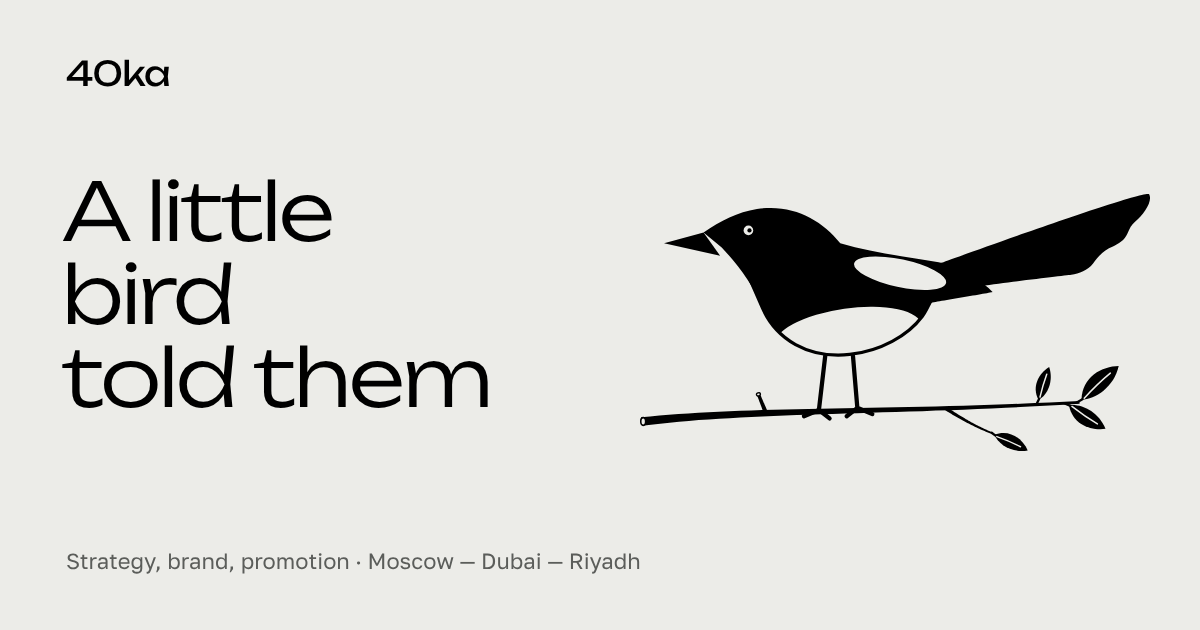
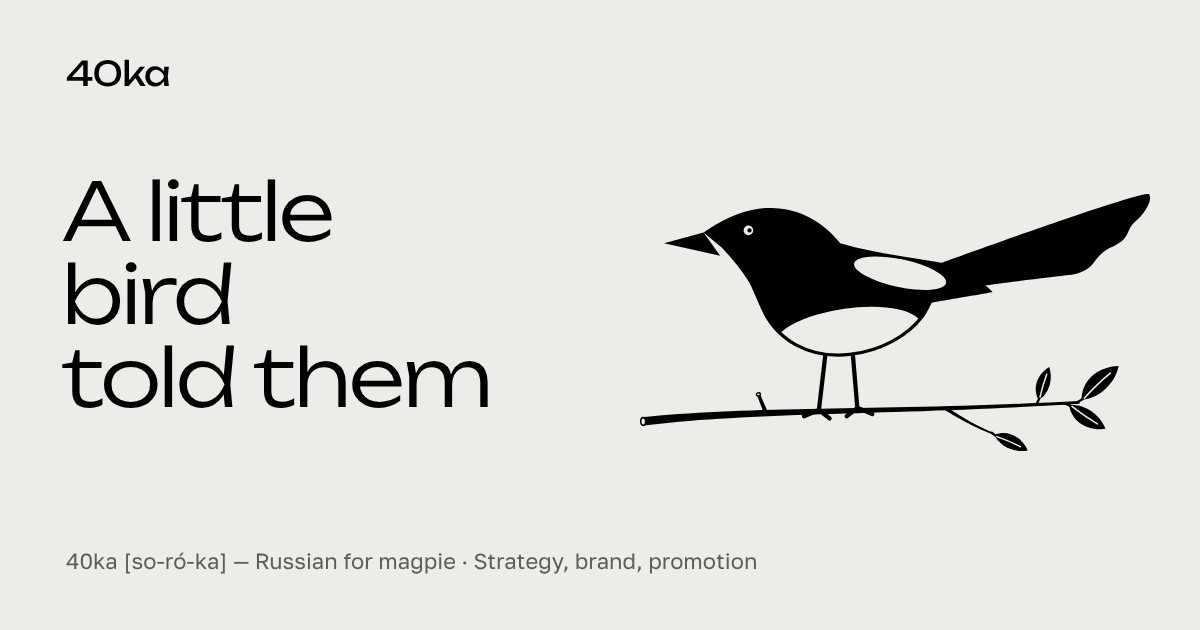
География без хвастовства; в английской версии — что такое 40ka
- С первого экрана убраны «Москва / Дубай / Эр-Рияд»
- Внизу сайта и в меню: «Россия · Турция · Саудовская Аравия · Индонезия» (Дубая нет)
- «О студии»: «Работаем по всей России, от Москвы до Дагестана, а также с компаниями в Турции, Саудовской Аравии и Индонезии…»
- Города убраны из описания для поисковиков и с картинки для пересылки ссылки
- EN: под заголовком вторая словарная статья — «40ka [so-ró-ka] — Russian for magpie: “sorok” means forty. Hence the bird.»; то же пояснение на английской картинке ссылки

Claude-Session: https://claude.ai/code/session_01ARYNsDozZ9rhrjs8BgKQgy

Changed region(s): [[0.0308, 0.8746, 0.6475, 0.9048]]

diff --git a/index.html b/index.html
@@ -6,12 +6,12 @@
 <title>40ka</title>
 <link rel="alternate" hreflang="ru" href="https://shamil-gdev.github.io/40ka-studio/">
 <link rel="alternate" hreflang="en" href="https://shamil-gdev.github.io/40ka-studio/en/">
-<meta name="description" content="40ka: сорока на хвосте принесёт. Стратегия, айдентика, сайты, ролики и продвижение для бизнеса, который хотят рекомендовать. Москва, Дубай, Эр-Рияд.">
+<meta name="description" content="40ka: сорока на хвосте принесёт. Стратегия, айдентика, сайты, ролики и продвижение для бизнеса, который хотят рекомендовать.">
 <meta property="og:type" content="website">
 <meta property="og:site_name" content="40ka">
 <meta property="og:locale" content="ru_RU">
 <meta property="og:title" content="40ka — стратегия, бренд, продвижение">
-<meta property="og:description" content="40ka: сорока на хвосте принесёт. Стратегия, айдентика, сайты, ролики и продвижение для бизнеса, который хотят рекомендовать. Москва, Дубай, Эр-Рияд.">
+<meta property="og:description" content="40ka: сорока на хвосте принесёт. Стратегия, айдентика, сайты, ролики и продвижение для бизнеса, который хотят рекомендовать.">
 <meta property="og:url" content="https://shamil-gdev.github.io/40ka-studio/">
 <meta property="og:image" content="https://shamil-gdev.github.io/40ka-studio/img/og.png">
 <meta property="og:image:width" content="1200">
@@ -75,7 +75,7 @@
     <a href="#about">О студии</a>
     <a href="#contact">Контакт</a>
   </nav>
-  <div class="menu__foot"><span>Москва — Дубай — Эр-Рияд</span><span>hello@40ka.studio</span></div>
+  <div class="menu__foot"><span>Россия · Турция · Саудовская Аравия · Индонезия</span><span>hello@40ka.studio</span></div>
 </div>
 
 <main id="top">
@@ -109,7 +109,6 @@
     </div>
     <div class="hero__sub">
       <p>Мы делаем бренды, о которых так рассказывают: стратегия, айдентика, сайт и продвижение.</p>
-      <div class="cities"><span>Москва</span><span>Дубай</span><span>Эр-Рияд</span></div>
     </div>
   </section>
 
@@ -306,7 +305,7 @@
       <div class="about__text">
         <p>40ka делает бренды и запускает их в жизнь: от стратегии и айдентики до сайта, роликов и продвижения. Название от сороки: птицы, которая замечает ценное и, в отличие от большинства, узнаёт себя в зеркале. Нам важно и то, и другое. Увидеть, что в бизнесе действительно ценно, и сделать так, чтобы он узнавал себя в своём бренде.</p>
         <p>Мы говорим с клиентом не о «красиво», а о том, как бренд влияет на выручку, цену и доверие.</p>
-        <p>Работаем с компаниями в Москве, Дубае и Эр-Рияде. Умеем работать с арабской и кириллической типографикой в одной системе.</p>
+        <p>Работаем по всей России, от Москвы до Дагестана, а также с компаниями в Турции, Саудовской Аравии и Индонезии. Умеем соединять арабскую и кириллическую типографику в одной системе.</p>
       </div>
     </div>
   </section>
@@ -335,7 +334,7 @@
     </div>
     <div class="foot">
       <span>40ka, 2026</span>
-      <span>Москва — Дубай — Эр-Рияд</span>
+      <span>Россия · Турция · Саудовская Аравия · Индонезия</span>
     </div>
   </div>
 </section>

diff --git a/en/index.html b/en/index.html
@@ -6,12 +6,12 @@
 <title>40ka</title>
 <link rel="alternate" hreflang="ru" href="https://shamil-gdev.github.io/40ka-studio/">
 <link rel="alternate" hreflang="en" href="https://shamil-gdev.github.io/40ka-studio/en/">
-<meta name="description" content="40ka: a little bird told them. Strategy, identity, websites, videos and promotion for businesses people want to recommend. Moscow, Dubai, Riyadh.">
+<meta name="description" content="40ka: a little bird told them. Strategy, identity, websites, videos and promotion for businesses people want to recommend.">
 <meta property="og:type" content="website">
 <meta property="og:site_name" content="40ka">
 <meta property="og:locale" content="en_US">
 <meta property="og:title" content="40ka — strategy, brand, promotion">
-<meta property="og:description" content="40ka: a little bird told them. Strategy, identity, websites, videos and promotion for businesses people want to recommend. Moscow, Dubai, Riyadh.">
+<meta property="og:description" content="40ka: a little bird told them. Strategy, identity, websites, videos and promotion for businesses people want to recommend.">
 <meta property="og:url" content="https://shamil-gdev.github.io/40ka-studio/en/">
 <meta property="og:image" content="https://shamil-gdev.github.io/40ka-studio/img/og-en.png">
 <meta property="og:image:width" content="1200">
@@ -75,7 +75,7 @@
     <a href="#about">About</a>
     <a href="#contact">Contact</a>
   </nav>
-  <div class="menu__foot"><span>Moscow — Dubai — Riyadh</span><span>hello@40ka.studio</span></div>
+  <div class="menu__foot"><span>Russia · Turkey · Saudi Arabia · Indonesia</span><span>hello@40ka.studio</span></div>
 </div>
 
 <main id="top">
@@ -87,6 +87,7 @@
         <span class="l"><span>told them</span></span>
       </h1>
       <p class="hero__def"><b>a little bird told me</b> <i>informal</i> <span>— said of news that has spread on its own.</span></p>
+      <p class="hero__def hero__def--name"><b>40ka</b> <i>[so-ró-ka]</i> <span>— Russian for magpie: “sorok” means forty. Hence the bird.</span></p>
     </div>
     <div class="hero__bird" data-parallax="-.08">
       <svg class="bird bird--hero" id="heroBird" viewBox="0 0 477.5 214.6" aria-hidden="true">
@@ -109,7 +110,6 @@
     </div>
     <div class="hero__sub">
       <p>We make brands that get talked about like that: strategy, identity, website and promotion.</p>
-      <div class="cities"><span>Moscow</span><span>Dubai</span><span>Riyadh</span></div>
     </div>
   </section>
 
@@ -306,7 +306,7 @@
       <div class="about__text">
         <p>40ka makes brands and launches them into the world: from strategy and identity to the website, videos and promotion. The name reads “soroka” — Russian for magpie, a bird that notices what is valuable and, unlike most, recognises itself in a mirror. Both matter to us: to see what is truly valuable in a business, and to make it recognise itself in its brand.</p>
         <p>We talk to clients not about “pretty” but about how the brand affects revenue, price and trust.</p>
-        <p>We work with companies in Moscow, Dubai and Riyadh, and we can set Arabic and Cyrillic type in one system.</p>
+        <p>We work across Russia, from Moscow to Dagestan, and with companies in Turkey, Saudi Arabia and Indonesia. We can bring Arabic and Cyrillic type together in one system.</p>
       </div>
     </div>
   </section>
@@ -335,7 +335,7 @@
     </div>
     <div class="foot">
       <span>40ka, 2026</span>
-      <span>Moscow — Dubai — Riyadh</span>
+      <span>Russia · Turkey · Saudi Arabia · Indonesia</span>
     </div>
   </div>
 </section>

diff --git a/cases/granada.html b/cases/granada.html
@@ -67,7 +67,7 @@
     <a href="../index.html#about">О студии</a>
     <a href="../index.html#contact">Контакт</a>
   </nav>
-  <div class="menu__foot"><span>Москва — Дубай — Эр-Рияд</span><span>hello@40ka.studio</span></div>
+  <div class="menu__foot"><span>Россия · Турция · Саудовская Аравия · Индонезия</span><span>hello@40ka.studio</span></div>
 </div>
 <main>
   <section class="case-hero wrap">
@@ -115,7 +115,7 @@
         <span>Telegram</span>
       </a>
     </div>
-    <div class="foot"><span>40ka, 2026</span><span>Москва — Дубай — Эр-Рияд</span></div>
+    <div class="foot"><span>40ka, 2026</span><span>Россия · Турция · Саудовская Аравия · Индонезия</span></div>
   </div>
 </section>
 <script src="../assets/site.js"></script>

diff --git a/cases/kofio.html b/cases/kofio.html
@@ -67,7 +67,7 @@
     <a href="../index.html#about">О студии</a>
     <a href="../index.html#contact">Контакт</a>
   </nav>
-  <div class="menu__foot"><span>Москва — Дубай — Эр-Рияд</span><span>hello@40ka.studio</span></div>
+  <div class="menu__foot"><span>Россия · Турция · Саудовская Аравия · Индонезия</span><span>hello@40ka.studio</span></div>
 </div>
 <main>
   <section class="case-hero wrap">
@@ -113,7 +113,7 @@
         <span>Telegram</span>
       </a>
     </div>
-    <div class="foot"><span>40ka, 2026</span><span>Москва — Дубай — Эр-Рияд</span></div>
+    <div class="foot"><span>40ka, 2026</span><span>Россия · Турция · Саудовская Аравия · Индонезия</span></div>
   </div>
 </section>
 <script src="../assets/site.js"></script>

diff --git a/cases/mosaik.html b/cases/mosaik.html
@@ -67,7 +67,7 @@
     <a href="../index.html#about">О студии</a>
     <a href="../index.html#contact">Контакт</a>
   </nav>
-  <div class="menu__foot"><span>Москва — Дубай — Эр-Рияд</span><span>hello@40ka.studio</span></div>
+  <div class="menu__foot"><span>Россия · Турция · Саудовская Аравия · Индонезия</span><span>hello@40ka.studio</span></div>
 </div>
 <main>
   <section class="case-hero wrap">
@@ -113,7 +113,7 @@
         <span>Telegram</span>
       </a>
     </div>
-    <div class="foot"><span>40ka, 2026</span><span>Москва — Дубай — Эр-Рияд</span></div>
+    <div class="foot"><span>40ka, 2026</span><span>Россия · Турция · Саудовская Аравия · Индонезия</span></div>
   </div>
 </section>
 <script src="../assets/site.js"></script>

diff --git a/cases/nota.html b/cases/nota.html
@@ -67,7 +67,7 @@
     <a href="../index.html#about">О студии</a>
     <a href="../index.html#contact">Контакт</a>
   </nav>
-  <div class="menu__foot"><span>Москва — Дубай — Эр-Рияд</span><span>hello@40ka.studio</span></div>
+  <div class="menu__foot"><span>Россия · Турция · Саудовская Аравия · Индонезия</span><span>hello@40ka.studio</span></div>
 </div>
 <main>
   <section class="case-hero wrap">
@@ -112,7 +112,7 @@
         <span>Telegram</span>
       </a>
     </div>
-    <div class="foot"><span>40ka, 2026</span><span>Москва — Дубай — Эр-Рияд</span></div>
+    <div class="foot"><span>40ka, 2026</span><span>Россия · Турция · Саудовская Аравия · Индонезия</span></div>
   </div>
 </section>
 <script src="../assets/site.js"></script>

diff --git a/cases/university.html b/cases/university.html
@@ -67,7 +67,7 @@
     <a href="../index.html#about">О студии</a>
     <a href="../index.html#contact">Контакт</a>
   </nav>
-  <div class="menu__foot"><span>Москва — Дубай — Эр-Рияд</span><span>hello@40ka.studio</span></div>
+  <div class="menu__foot"><span>Россия · Турция · Саудовская Аравия · Индонезия</span><span>hello@40ka.studio</span></div>
 </div>
 <main>
   <section class="case-hero wrap">
@@ -116,7 +116,7 @@
         <span>Telegram</span>
       </a>
     </div>
-    <div class="foot"><span>40ka, 2026</span><span>Москва — Дубай — Эр-Рияд</span></div>
+    <div class="foot"><span>40ka, 2026</span><span>Россия · Турция · Саудовская Аравия · Индонезия</span></div>
   </div>
 </section>
 <script src="../assets/site.js"></script>

diff --git a/en/cases/granada.html b/en/cases/granada.html
@@ -67,7 +67,7 @@
     <a href="../index.html#about">About</a>
     <a href="../index.html#contact">Contact</a>
   </nav>
-  <div class="menu__foot"><span>Moscow — Dubai — Riyadh</span><span>hello@40ka.studio</span></div>
+  <div class="menu__foot"><span>Russia · Turkey · Saudi Arabia · Indonesia</span><span>hello@40ka.studio</span></div>
 </div>
 <main>
   <section class="case-hero wrap">
@@ -115,7 +115,7 @@
         <span>Telegram</span>
       </a>
     </div>
-    <div class="foot"><span>40ka, 2026</span><span>Moscow — Dubai — Riyadh</span></div>
+    <div class="foot"><span>40ka, 2026</span><span>Russia · Turkey · Saudi Arabia · Indonesia</span></div>
   </div>
 </section>
 <script src="../../assets/site.js"></script>

diff --git a/en/cases/kofio.html b/en/cases/kofio.html
@@ -67,7 +67,7 @@
     <a href="../index.html#about">About</a>
     <a href="../index.html#contact">Contact</a>
   </nav>
-  <div class="menu__foot"><span>Moscow — Dubai — Riyadh</span><span>hello@40ka.studio</span></div>
+  <div class="menu__foot"><span>Russia · Turkey · Saudi Arabia · Indonesia</span><span>hello@40ka.studio</span></div>
 </div>
 <main>
   <section class="case-hero wrap">
@@ -113,7 +113,7 @@
         <span>Telegram</span>
       </a>
     </div>
-    <div class="foot"><span>40ka, 2026</span><span>Moscow — Dubai — Riyadh</span></div>
+    <div class="foot"><span>40ka, 2026</span><span>Russia · Turkey · Saudi Arabia · Indonesia</span></div>
   </div>
 </section>
 <script src="../../assets/site.js"></script>

diff --git a/en/cases/mosaik.html b/en/cases/mosaik.html
@@ -67,7 +67,7 @@
     <a href="../index.html#about">About</a>
     <a href="../index.html#contact">Contact</a>
   </nav>
-  <div class="menu__foot"><span>Moscow — Dubai — Riyadh</span><span>hello@40ka.studio</span></div>
+  <div class="menu__foot"><span>Russia · Turkey · Saudi Arabia · Indonesia</span><span>hello@40ka.studio</span></div>
 </div>
 <main>
   <section class="case-hero wrap">
@@ -113,7 +113,7 @@
         <span>Telegram</span>
       </a>
     </div>
-    <div class="foot"><span>40ka, 2026</span><span>Moscow — Dubai — Riyadh</span></div>
+    <div class="foot"><span>40ka, 2026</span><span>Russia · Turkey · Saudi Arabia · Indonesia</span></div>
   </div>
 </section>
 <script src="../../assets/site.js"></script>

diff --git a/en/cases/nota.html b/en/cases/nota.html
@@ -67,7 +67,7 @@
     <a href="../index.html#about">About</a>
     <a href="../index.html#contact">Contact</a>
   </nav>
-  <div class="menu__foot"><span>Moscow — Dubai — Riyadh</span><span>hello@40ka.studio</span></div>
+  <div class="menu__foot"><span>Russia · Turkey · Saudi Arabia · Indonesia</span><span>hello@40ka.studio</span></div>
 </div>
 <main>
   <section class="case-hero wrap">
@@ -112,7 +112,7 @@
         <span>Telegram</span>
       </a>
     </div>
-    <div class="foot"><span>40ka, 2026</span><span>Moscow — Dubai — Riyadh</span></div>
+    <div class="foot"><span>40ka, 2026</span><span>Russia · Turkey · Saudi Arabia · Indonesia</span></div>
   </div>
 </section>
 <script src="../../assets/site.js"></script>

diff --git a/en/cases/university.html b/en/cases/university.html
@@ -67,7 +67,7 @@
     <a href="../index.html#about">About</a>
     <a href="../index.html#contact">Contact</a>
   </nav>
-  <div class="menu__foot"><span>Moscow — Dubai — Riyadh</span><span>hello@40ka.studio</span></div>
+  <div class="menu__foot"><span>Russia · Turkey · Saudi Arabia · Indonesia</span><span>hello@40ka.studio</span></div>
 </div>
 <main>
   <section class="case-hero wrap">
@@ -116,7 +116,7 @@
         <span>Telegram</span>
       </a>
     </div>
-    <div class="foot"><span>40ka, 2026</span><span>Moscow — Dubai — Riyadh</span></div>
+    <div class="foot"><span>40ka, 2026</span><span>Russia · Turkey · Saudi Arabia · Indonesia</span></div>
   </div>
 </section>
 <script src="../../assets/site.js"></script>
